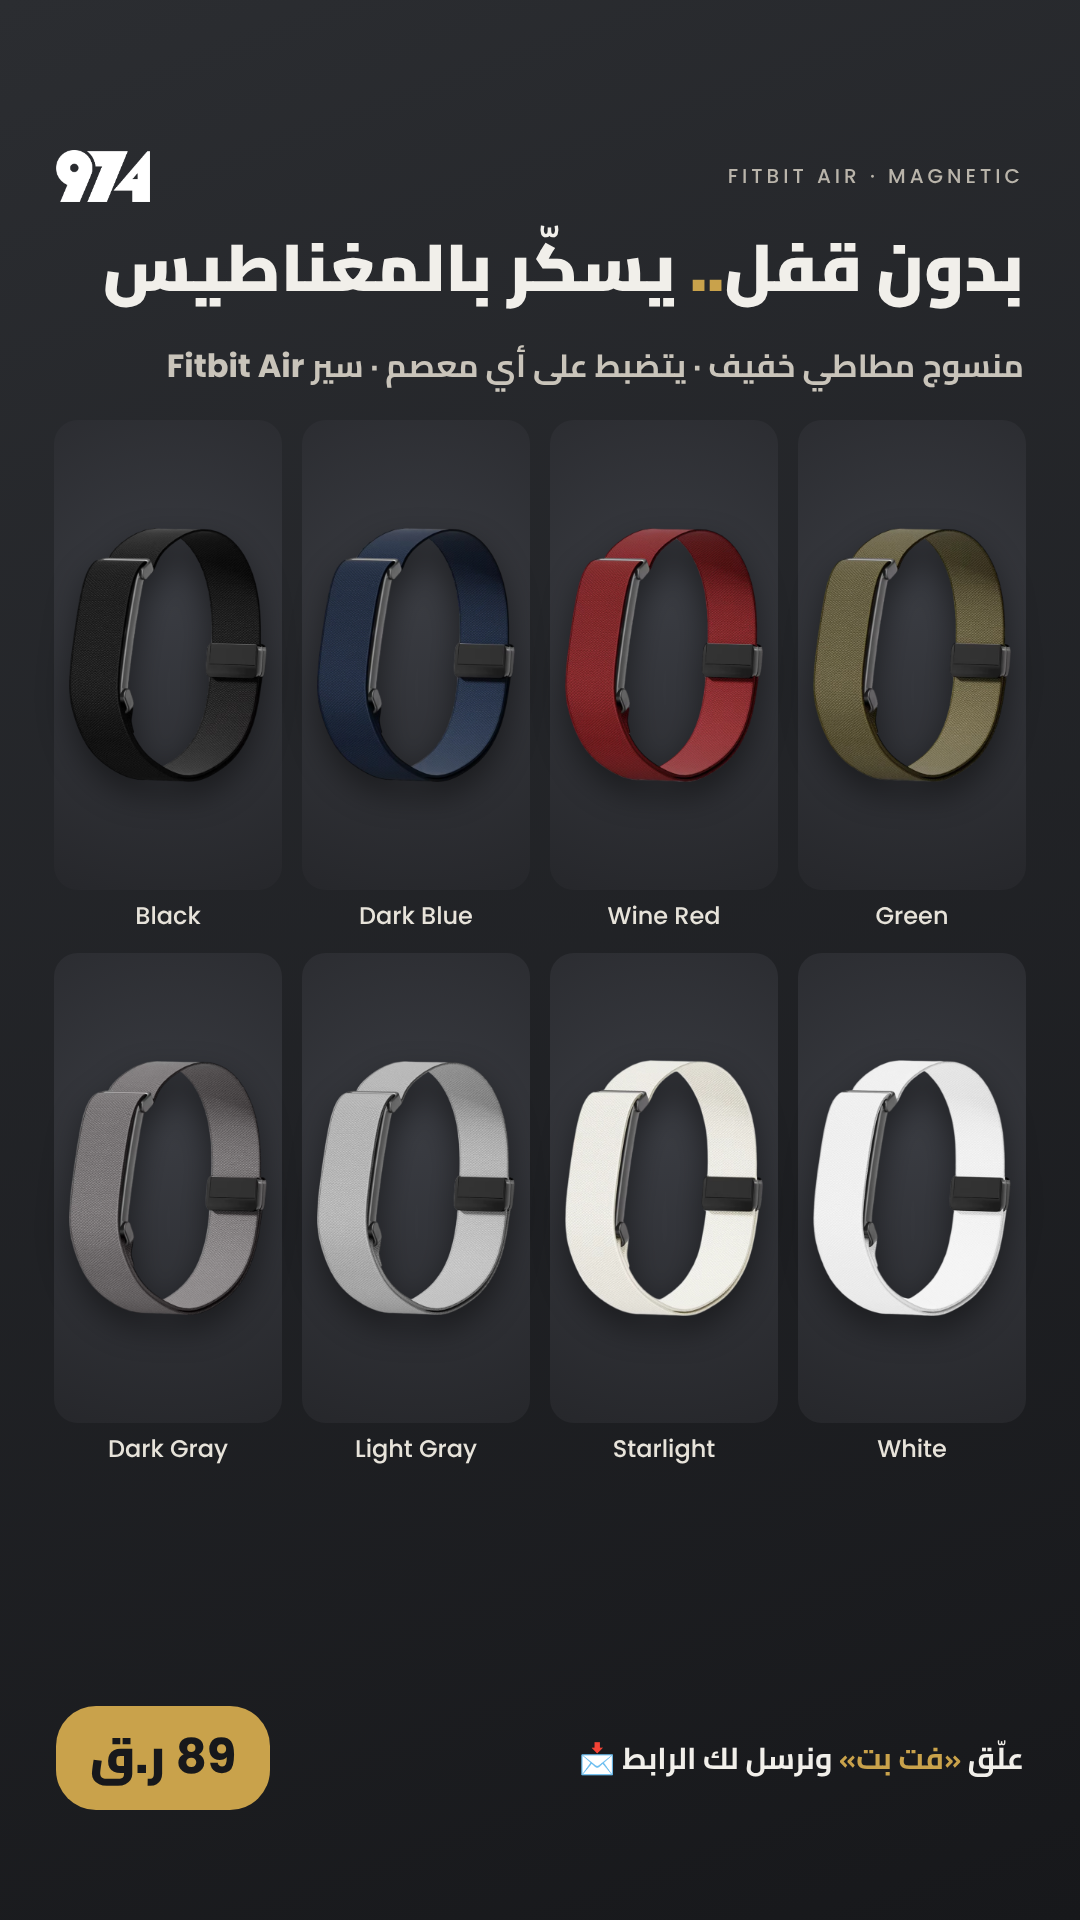
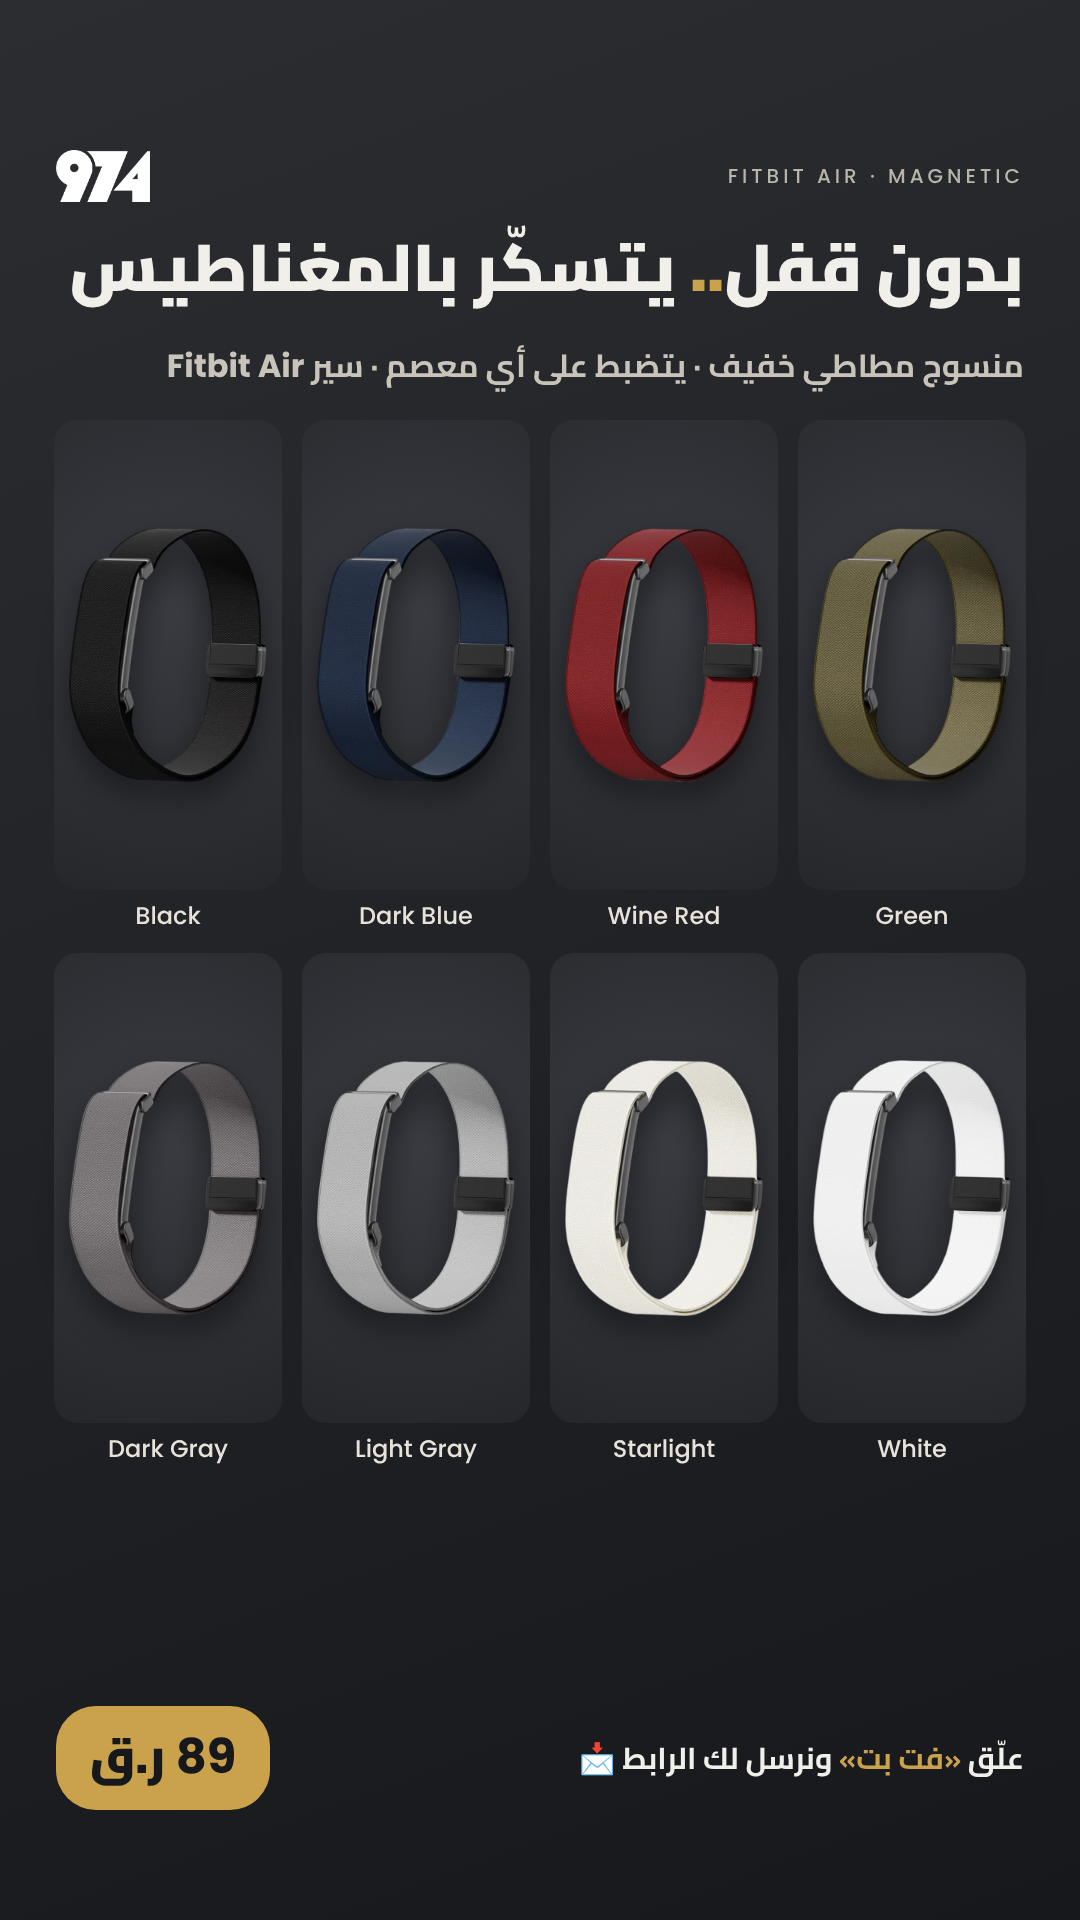
Fitbit magnetic: يتسكّر
Claude-Session: https://claude.ai/code/session_01K6HDWNrArsGSJekW1VcEzV

Changed region(s): [[0.0611, 0.125, 0.6111, 0.1562]]

diff --git a/posts/2026-11/fitbit-air-magnetic/974-fitbit-air-magnetic-post.html b/posts/2026-11/fitbit-air-magnetic/974-fitbit-air-magnetic-post.html
@@ -23,7 +23,7 @@ h1 i{font-style:normal;color:#C9A24B}
 .cta em{font-style:normal;color:#C9A24B}
 </style></head><body>
 <div class="head"><img src="file:///home/claude/974-social/posts/2026-11/pilates-socks/src/logo-white.png"><span>FITBIT AIR · MAGNETIC</span></div>
-<h1>بدون قفل<i>..</i> يسكّر بالمغناطيس</h1>
+<h1>بدون قفل<i>..</i> يتسكّر بالمغناطيس</h1>
 <div class="sub">منسوج مطاطي خفيف · يتضبط على أي معصم · سير <b>Fitbit Air</b></div>
 <div class="grid"><div class="c"><div class="t"><img src="file:///home/claude/974-social/products/fitbit-air-magnetic/black-cut.png"></div><span>Black</span></div><div class="c"><div class="t"><img src="file:///home/claude/974-social/products/fitbit-air-magnetic/dark-blue-cut.png"></div><span>Dark Blue</span></div><div class="c"><div class="t"><img src="file:///home/claude/974-social/products/fitbit-air-magnetic/wine-red-cut.png"></div><span>Wine Red</span></div><div class="c"><div class="t"><img src="file:///home/claude/974-social/products/fitbit-air-magnetic/green-cut.png"></div><span>Green</span></div><div class="c"><div class="t"><img src="file:///home/claude/974-social/products/fitbit-air-magnetic/dark-gray-cut.png"></div><span>Dark Gray</span></div><div class="c"><div class="t"><img src="file:///home/claude/974-social/products/fitbit-air-magnetic/light-gray-cut.png"></div><span>Light Gray</span></div><div class="c"><div class="t"><img src="file:///home/claude/974-social/products/fitbit-air-magnetic/starlight-cut.png"></div><span>Starlight</span></div><div class="c"><div class="t"><img src="file:///home/claude/974-social/products/fitbit-air-magnetic/white-cut.png"></div><span>White</span></div></div>
 <div class="foot"><div class="cta">علّق <em>«فت بت»</em> ونرسل لك الرابط 📩</div><div class="price"><b>89</b> ر.ق</div></div>

diff --git a/posts/2026-11/fitbit-air-magnetic/974-fitbit-air-magnetic-story.html b/posts/2026-11/fitbit-air-magnetic/974-fitbit-air-magnetic-story.html
@@ -23,7 +23,7 @@ h1 i{font-style:normal;color:#C9A24B}
 .cta em{font-style:normal;color:#C9A24B}
 </style></head><body>
 <div class="head"><img src="file:///home/claude/974-social/posts/2026-11/pilates-socks/src/logo-white.png"><span>FITBIT AIR · MAGNETIC</span></div>
-<h1>بدون قفل<i>..</i> يسكّر بالمغناطيس</h1>
+<h1>بدون قفل<i>..</i> يتسكّر بالمغناطيس</h1>
 <div class="sub">منسوج مطاطي خفيف · يتضبط على أي معصم · سير <b>Fitbit Air</b></div>
 <div class="grid"><div class="c"><div class="t"><img src="file:///home/claude/974-social/products/fitbit-air-magnetic/black-cut.png"></div><span>Black</span></div><div class="c"><div class="t"><img src="file:///home/claude/974-social/products/fitbit-air-magnetic/dark-blue-cut.png"></div><span>Dark Blue</span></div><div class="c"><div class="t"><img src="file:///home/claude/974-social/products/fitbit-air-magnetic/wine-red-cut.png"></div><span>Wine Red</span></div><div class="c"><div class="t"><img src="file:///home/claude/974-social/products/fitbit-air-magnetic/green-cut.png"></div><span>Green</span></div><div class="c"><div class="t"><img src="file:///home/claude/974-social/products/fitbit-air-magnetic/dark-gray-cut.png"></div><span>Dark Gray</span></div><div class="c"><div class="t"><img src="file:///home/claude/974-social/products/fitbit-air-magnetic/light-gray-cut.png"></div><span>Light Gray</span></div><div class="c"><div class="t"><img src="file:///home/claude/974-social/products/fitbit-air-magnetic/starlight-cut.png"></div><span>Starlight</span></div><div class="c"><div class="t"><img src="file:///home/claude/974-social/products/fitbit-air-magnetic/white-cut.png"></div><span>White</span></div></div>
 <div class="foot"><div class="cta">علّق <em>«فت بت»</em> ونرسل لك الرابط 📩</div><div class="price"><b>89</b> ر.ق</div></div>

diff --git a/posts/2026-11/fitbit-air-magnetic/gen.py b/posts/2026-11/fitbit-air-magnetic/gen.py
@@ -31,7 +31,7 @@ h1 i{{font-style:normal;color:#C9A24B}}
 .cta em{{font-style:normal;color:#C9A24B}}
 </style></head><body>
 <div class="head"><img src="file:///home/claude/974-social/posts/2026-11/pilates-socks/src/logo-white.png"><span>FITBIT AIR · MAGNETIC</span></div>
-<h1>بدون قفل<i>..</i> يسكّر بالمغناطيس</h1>
+<h1>بدون قفل<i>..</i> يتسكّر بالمغناطيس</h1>
 <div class="sub">منسوج مطاطي خفيف · يتضبط على أي معصم · سير <b>Fitbit Air</b></div>
 <div class="grid">{cards}</div>
 <div class="foot"><div class="cta">علّق <em>«فت بت»</em> ونرسل لك الرابط 📩</div><div class="price"><b>{PRICE}</b> ر.ق</div></div>
